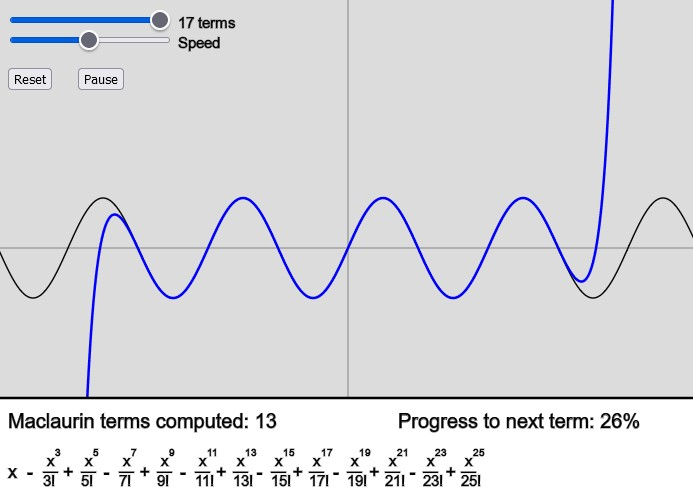
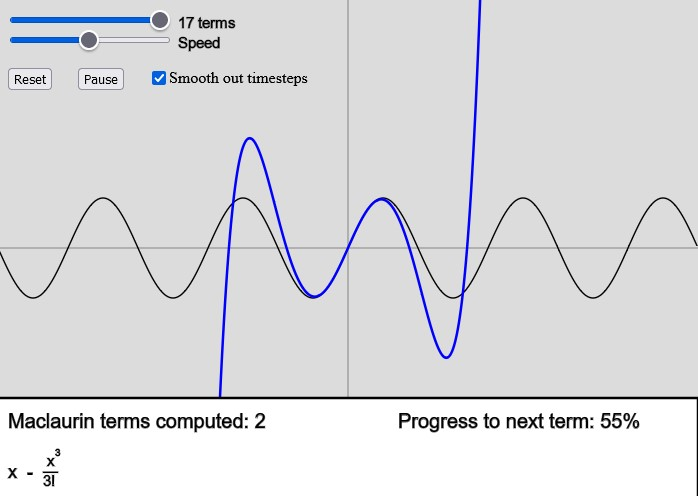
smooth out timestep
slow down animation when the graph undergoes most visible change

diff --git a/maclaurin/maclaurin_sim.js b/maclaurin/maclaurin_sim.js
@@ -4,11 +4,12 @@ let speed;
 let reset;
 let pause;
 let paused = false;
+let smoothify;
 
 // setup
 function setup() {
   createCanvas(700, 500);
-  
+
 //   declaring canvas elements
   terms = createSlider(1, 17);
   terms.position(10, 10);
@@ -20,6 +21,8 @@ function setup() {
   pause = createButton("Pause");
   pause.position(80, 70);
   pause.mouseClicked(pauseSim);
+  smoothify = createCheckbox('Smooth out timesteps', true);
+  smoothify.position(150, 70);
 }
 
 // time of animation
@@ -55,7 +58,14 @@ function draw() {
 
 //   move onto next frame
   if (t<terms.value()*2+1 && !paused) {
-    t += speed.value()/1000 + dt;
+    if (!smoothify.checked())
+//       slowly accelerating timstep
+      t += speed.value()/1000 + dt;
+    else {
+//       timstep is divided by modified coefficient factor, so the further progress to next term, the slower it will move to the next step
+      t += (speed.value()/1000 + dt) / ((((t-1)/2) % 1)*floor(t/4)+1);
+    }
+//     accelerates, because higher terms get boring to wait for
     dt += ddt;
   }
 
